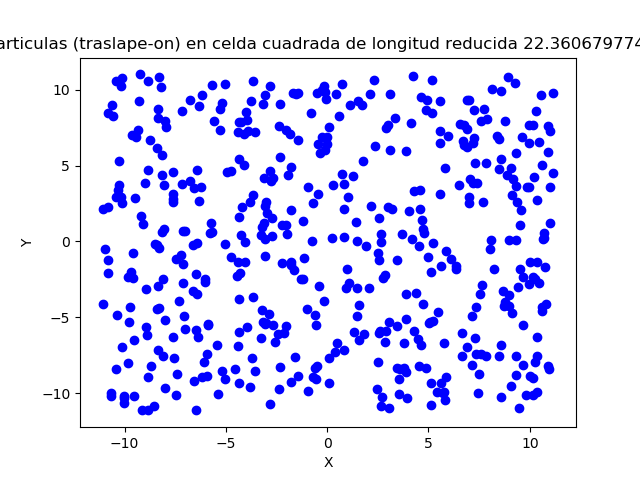
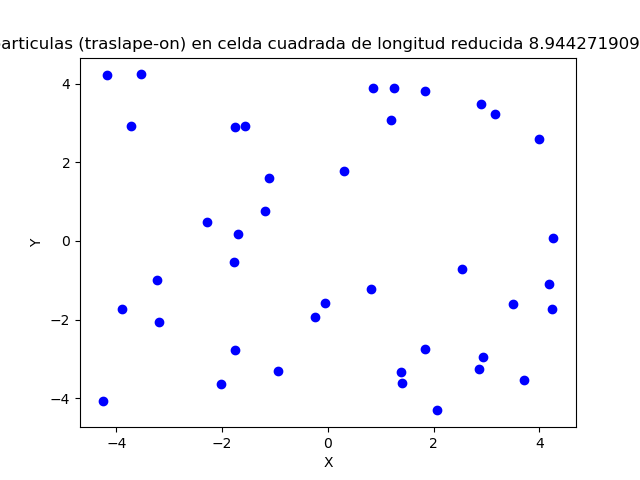
avance, ya hay loop para impedir traslape

diff --git a/tarea 2/actividad 6/act6_main.py b/tarea 2/actividad 6/act6_main.py
@@ -1,0 +1,24 @@
+# autor: Hugo de Jesus Valenzuela Chaparro
+# Universidad de Sonora, septiembre 2019
+# Curso Desarrollo Experimental 2
+# ************** actividad 6 de la tarea 2: ******************
+# este programa aproxima el numero pi haciendo uso del metodo
+# de Monte Carlo, para esto nos ayudamos de un circulo unitario
+# inscrito a un cuadrado de lado 2, ambos con centros en el origen.
+# lanzamos N numeros aleatorios y contamos las M veces que se cae
+# dentro del circulo, posteriormente relacionamos la proporcion M/N
+# con la propabilidad de caer dentro del circulo y calculamos pi como
+# pi = (4*M)/N
+
+# librerias requeridas para que funcione el programa
+import numpy as np
+import matplotlib.pyplot as plt
+# --------------------------------------------------
+
+# dar informacion del programa
+print("""Este programa aproxima pi con el metodo de Monte Carlo, esto haciendo
+N lanzamientos aleatorios dentro de un cuadrado con un circulo inscrito, y
+contando las M veces que se cae dentro del circulo""")
+
+N = input("""De el numero de N lanzamientos aleatorios que desee hacer
+""")

diff --git a/tarea 2/actividad 4/act4_main.py b/tarea 2/actividad 4/act4_main.py
@@ -68,7 +68,14 @@ for i in range(0, int(N)):
             pos[contador_final, 0] = x_temp # almacenar coord x en arreglo
             pos[contador_final, 1] = y_temp # almacenar coord y en arreglo
             pos[contador_final, 2] = z_temp # almacenar coord z en arreglo
-
+            #ax = plt.axes(projection='3d')
+            #ax.scatter3D(pos[:,0], pos[:,1], pos[:,2]) #, cmap = 'Greens')
+            #titulo = str(contador_final+1) + " particulas en celca cubica de longitud " + str(L)
+            #plt.title(titulo)
+            #ax.set_xlabel("X")
+            #ax.set_ylabel("Y")
+            #ax.set_zlabel("Z")
+            #plt.show()
 
 # trasladar el centro de la celda al origen (0,0)
 pos[:,0] = pos[:,0] - float(L)/2.0 # coordenadas x

diff --git a/tarea 2/actividad 1/act1_main.py b/tarea 2/actividad 1/act1_main.py
@@ -46,6 +46,7 @@ Y = np.zeros((int(N), 1))
 
 
 np.random.seed(4958202) # semilla para poder hacer los numeros reproducibles
+#np.random.seed(24571)
 # generar posiciones
 for i in range(0, int(N)):
     print("la iesima es", i)
@@ -78,8 +79,8 @@ for i in range(0, int(N)):
             print("posiciones nuevas", deltax, deltay)
             j = 0
         elif j < i:
-            j += i
-            print("hola perro hola perro")
+            print("sin traslape", j)
+            j += 1
         else:
             break
 
